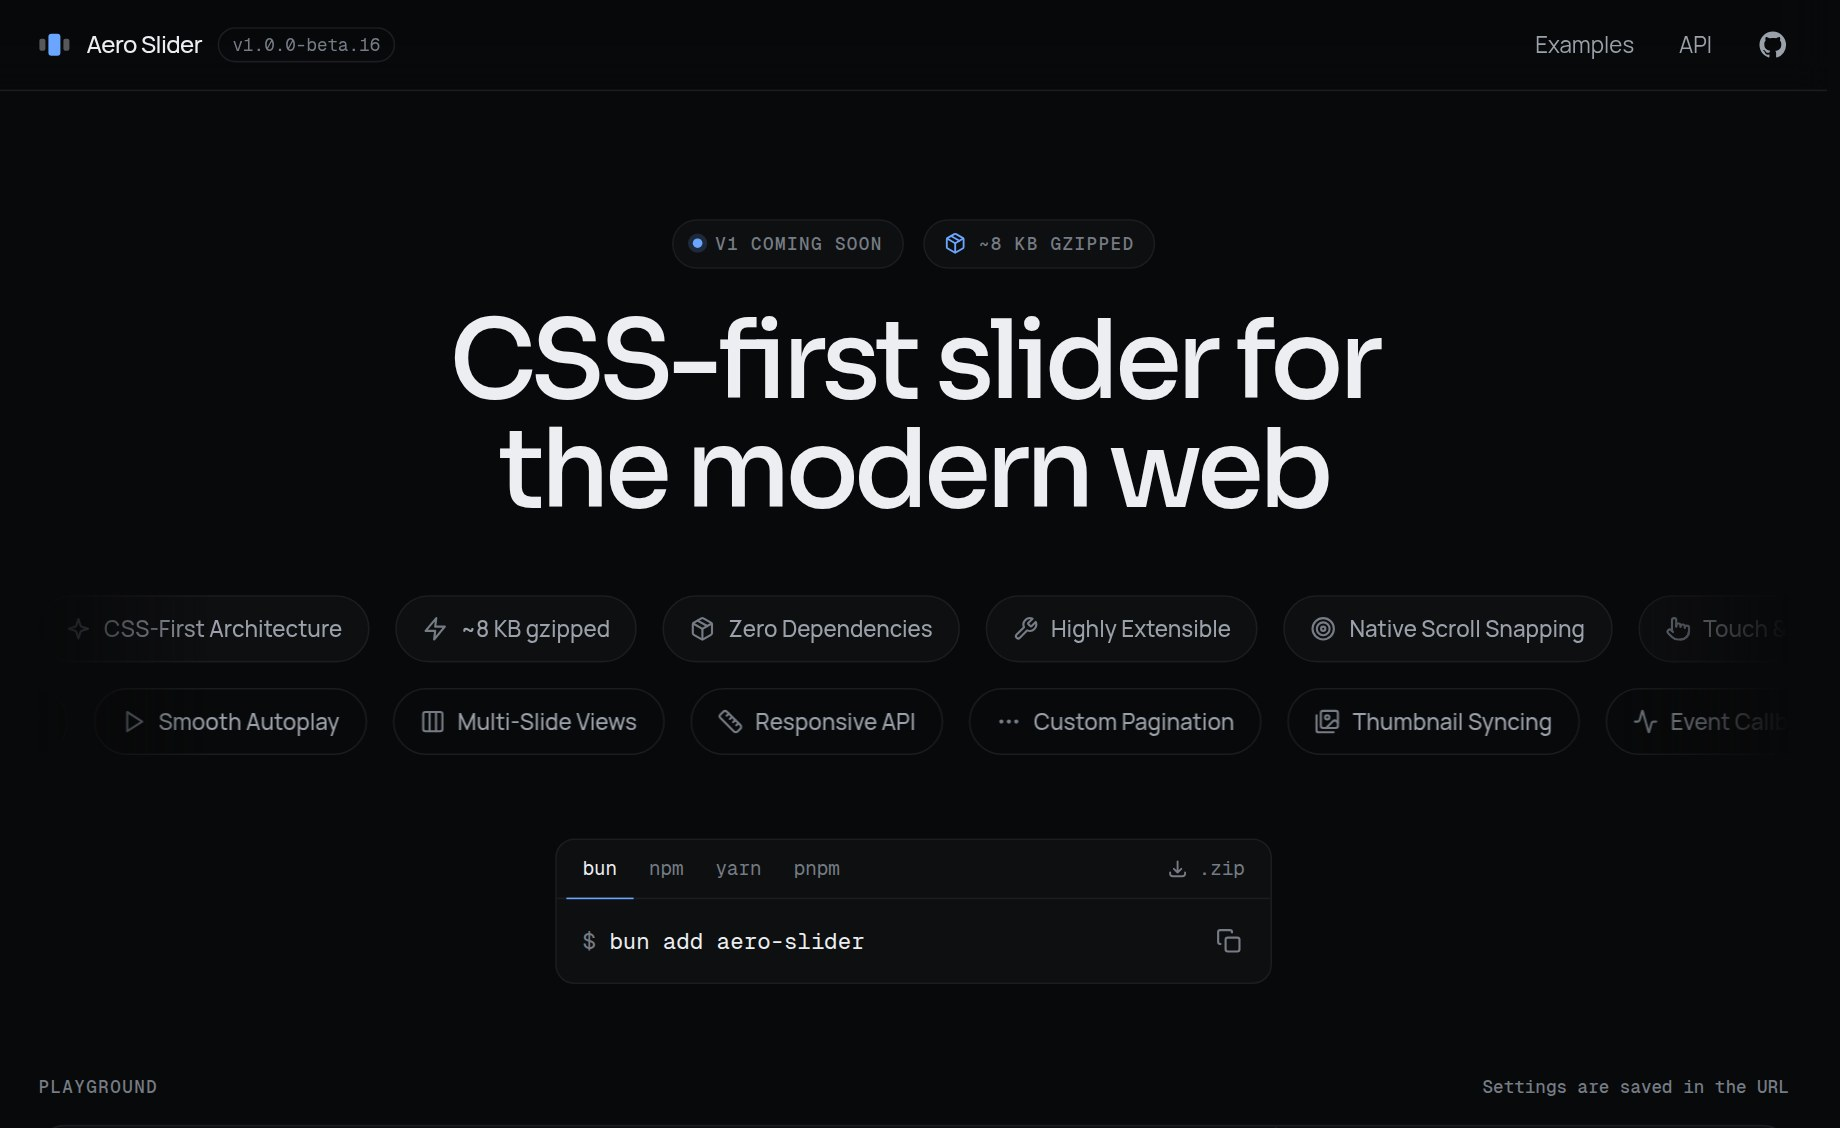
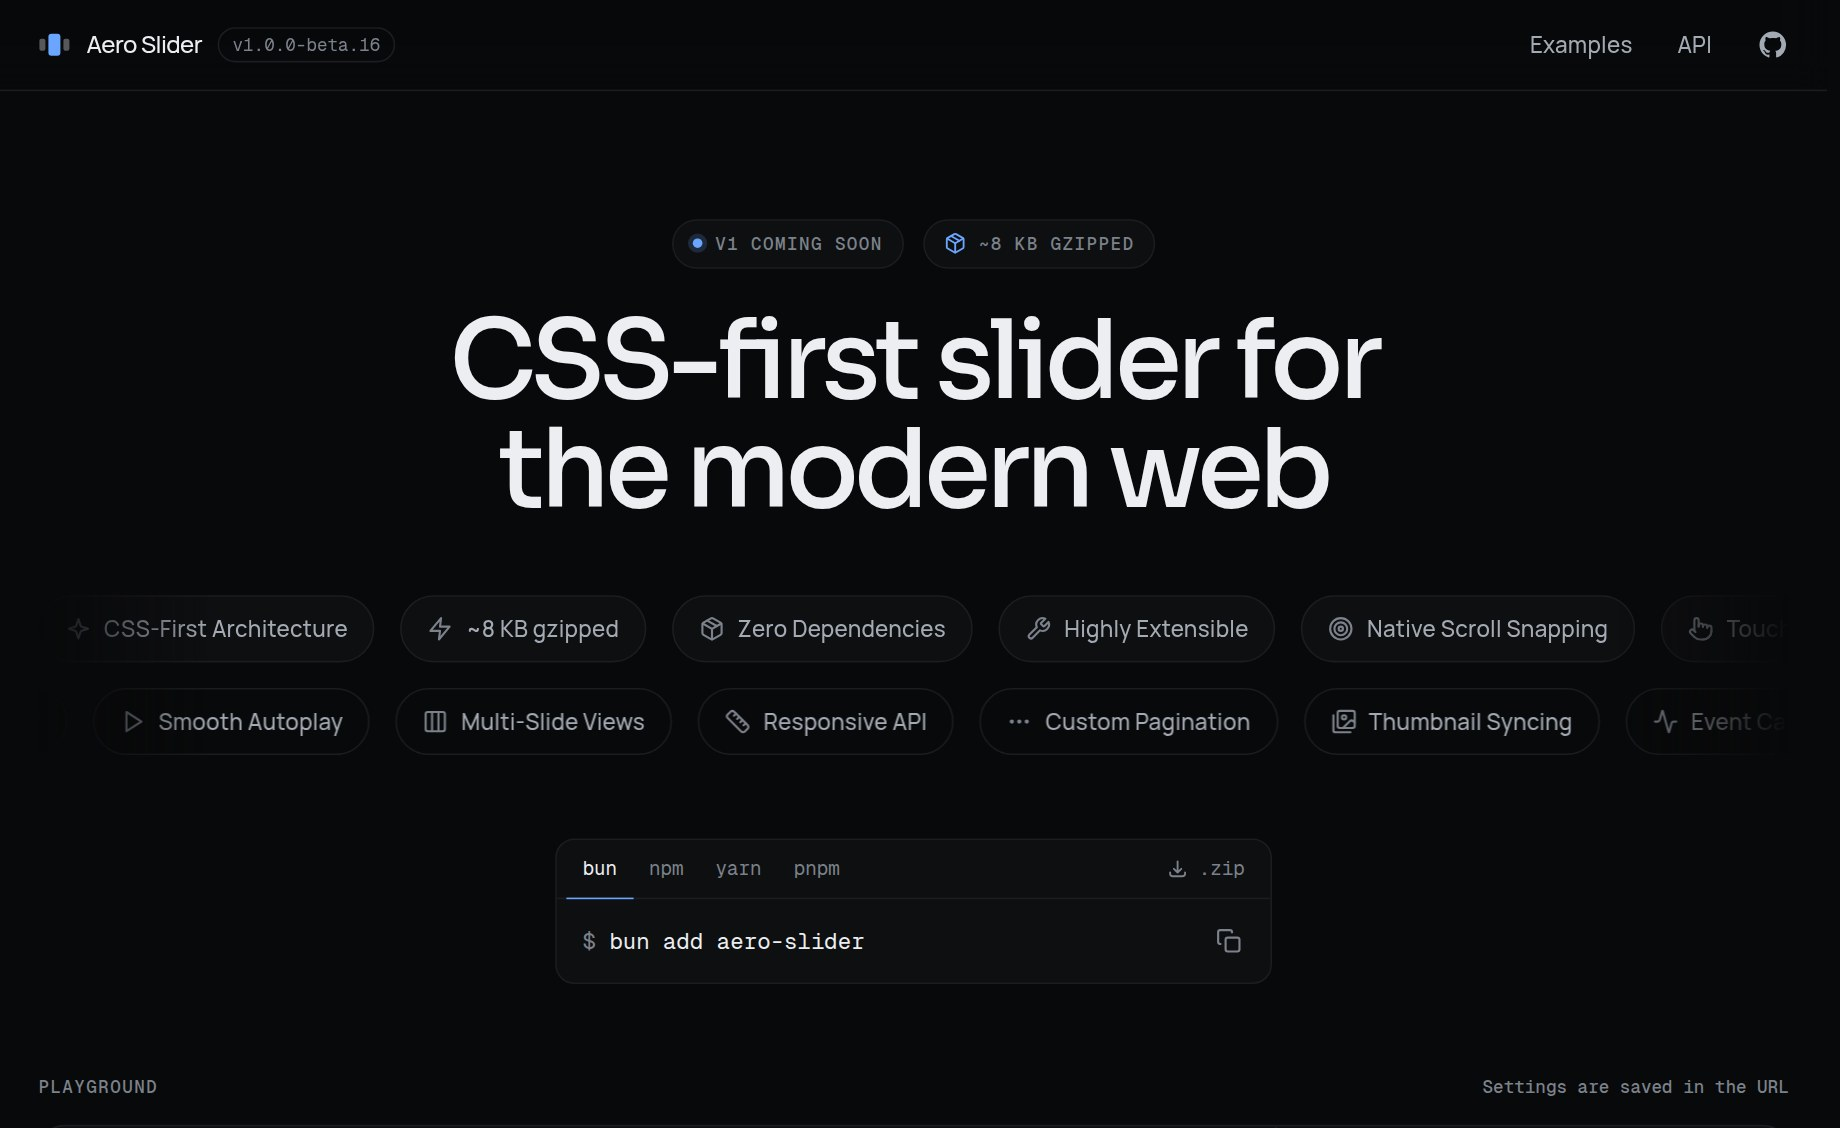
Tune body text for legibility on the dark background
- Lift the muted and faint text tokens slightly. Body copy contrast goes
  from 7.6:1 to 8.5:1.
- Add 0.01em tracking to body text, which reads tight when light on black.
  Mono text is reset to its own spacing.
- Set docs copy at 16px with a 1.7 line height and cap it at 36rem, about
  77 characters a line. Notes and table text go to 15px.
- Loosen example titles, raise slide caption and text opacity, and let
  inline code move to the next line whole instead of splitting mid-token.

diff --git a/site/src/styles/global.css b/site/src/styles/global.css
@@ -37,8 +37,8 @@
   --paper: #08090a;
   --surface: #0e0f11;
   --ink: #eceef1;
-  --muted: #9ba1aa;
-  --faint: #767c85;
+  --muted: #a4aab3;
+  --faint: #7c828b;
   --line: #1b1d21;
   --line-strong: #2d3036;
   --accent: #6aa5ff;
@@ -101,6 +101,8 @@ body {
   color: var(--ink);
   font-family: var(--font-sans);
   font-weight: 500;
+  /* Light text on black reads tighter than it is; a little tracking opens it up. */
+  letter-spacing: 0.01em;
   -webkit-font-smoothing: antialiased;
   -moz-osx-font-smoothing: grayscale;
   text-rendering: optimizeLegibility;
@@ -146,6 +148,7 @@ body {
   pre,
   .font-mono {
     font-weight: 400;
+    letter-spacing: 0;
   }
 }
 
@@ -168,14 +171,18 @@ body {
   }
 
   /* Running documentation text. */
+  /* 36rem holds a line of Manrope at this size to roughly 75 characters. */
   .copy {
-    max-width: 44rem;
-    font-size: 0.9375rem;
-    line-height: 1.65;
+    max-width: 36rem;
+    font-size: 1rem;
+    line-height: 1.7;
     color: var(--muted);
   }
   .copy > * + * {
-    margin-top: 0.875rem;
+    margin-top: 1rem;
+  }
+  .copy p {
+    text-wrap: pretty;
   }
   .copy strong {
     font-weight: 500;
@@ -202,19 +209,20 @@ body {
     font-family: var(--font-mono);
     font-size: 0.8125em;
     color: var(--ink);
-    overflow-wrap: anywhere;
+    overflow-wrap: break-word;
   }
 
   .note {
-    max-width: 44rem;
+    max-width: 36rem;
     padding: 0.75rem 1rem;
     border: 1px solid var(--line);
     border-left: 2px solid var(--accent);
     border-radius: 0.5rem;
     background: var(--surface);
-    font-size: 0.875rem;
-    line-height: 1.6;
+    font-size: 0.9375rem;
+    line-height: 1.65;
     color: var(--muted);
+    text-wrap: pretty;
   }
   .note strong {
     font-weight: 500;
@@ -421,8 +429,8 @@ body {
 
   .doc-table {
     width: 100%;
-    font-size: 0.875rem;
-    line-height: 1.55;
+    font-size: 0.9375rem;
+    line-height: 1.6;
     color: var(--muted);
   }
   .doc-table th {
@@ -445,6 +453,7 @@ body {
   .doc-table td[data-mono] {
     font-family: var(--font-mono);
     font-weight: 400;
+    letter-spacing: 0;
     font-size: 0.8125rem;
     color: var(--ink);
   }
@@ -595,7 +604,7 @@ body {
   font-weight: 500;
   letter-spacing: 0.08em;
   text-transform: uppercase;
-  opacity: 0.6;
+  opacity: 0.7;
 }
 .slide__num {
   font-family: var(--font-display);
@@ -607,8 +616,8 @@ body {
 .slide__text {
   max-width: 22rem;
   font-size: 0.875rem;
-  line-height: 1.45;
-  opacity: 0.7;
+  line-height: 1.5;
+  opacity: 0.8;
 }
 
 /* Playground: square the slides when the gap is zero so they tile cleanly. */
